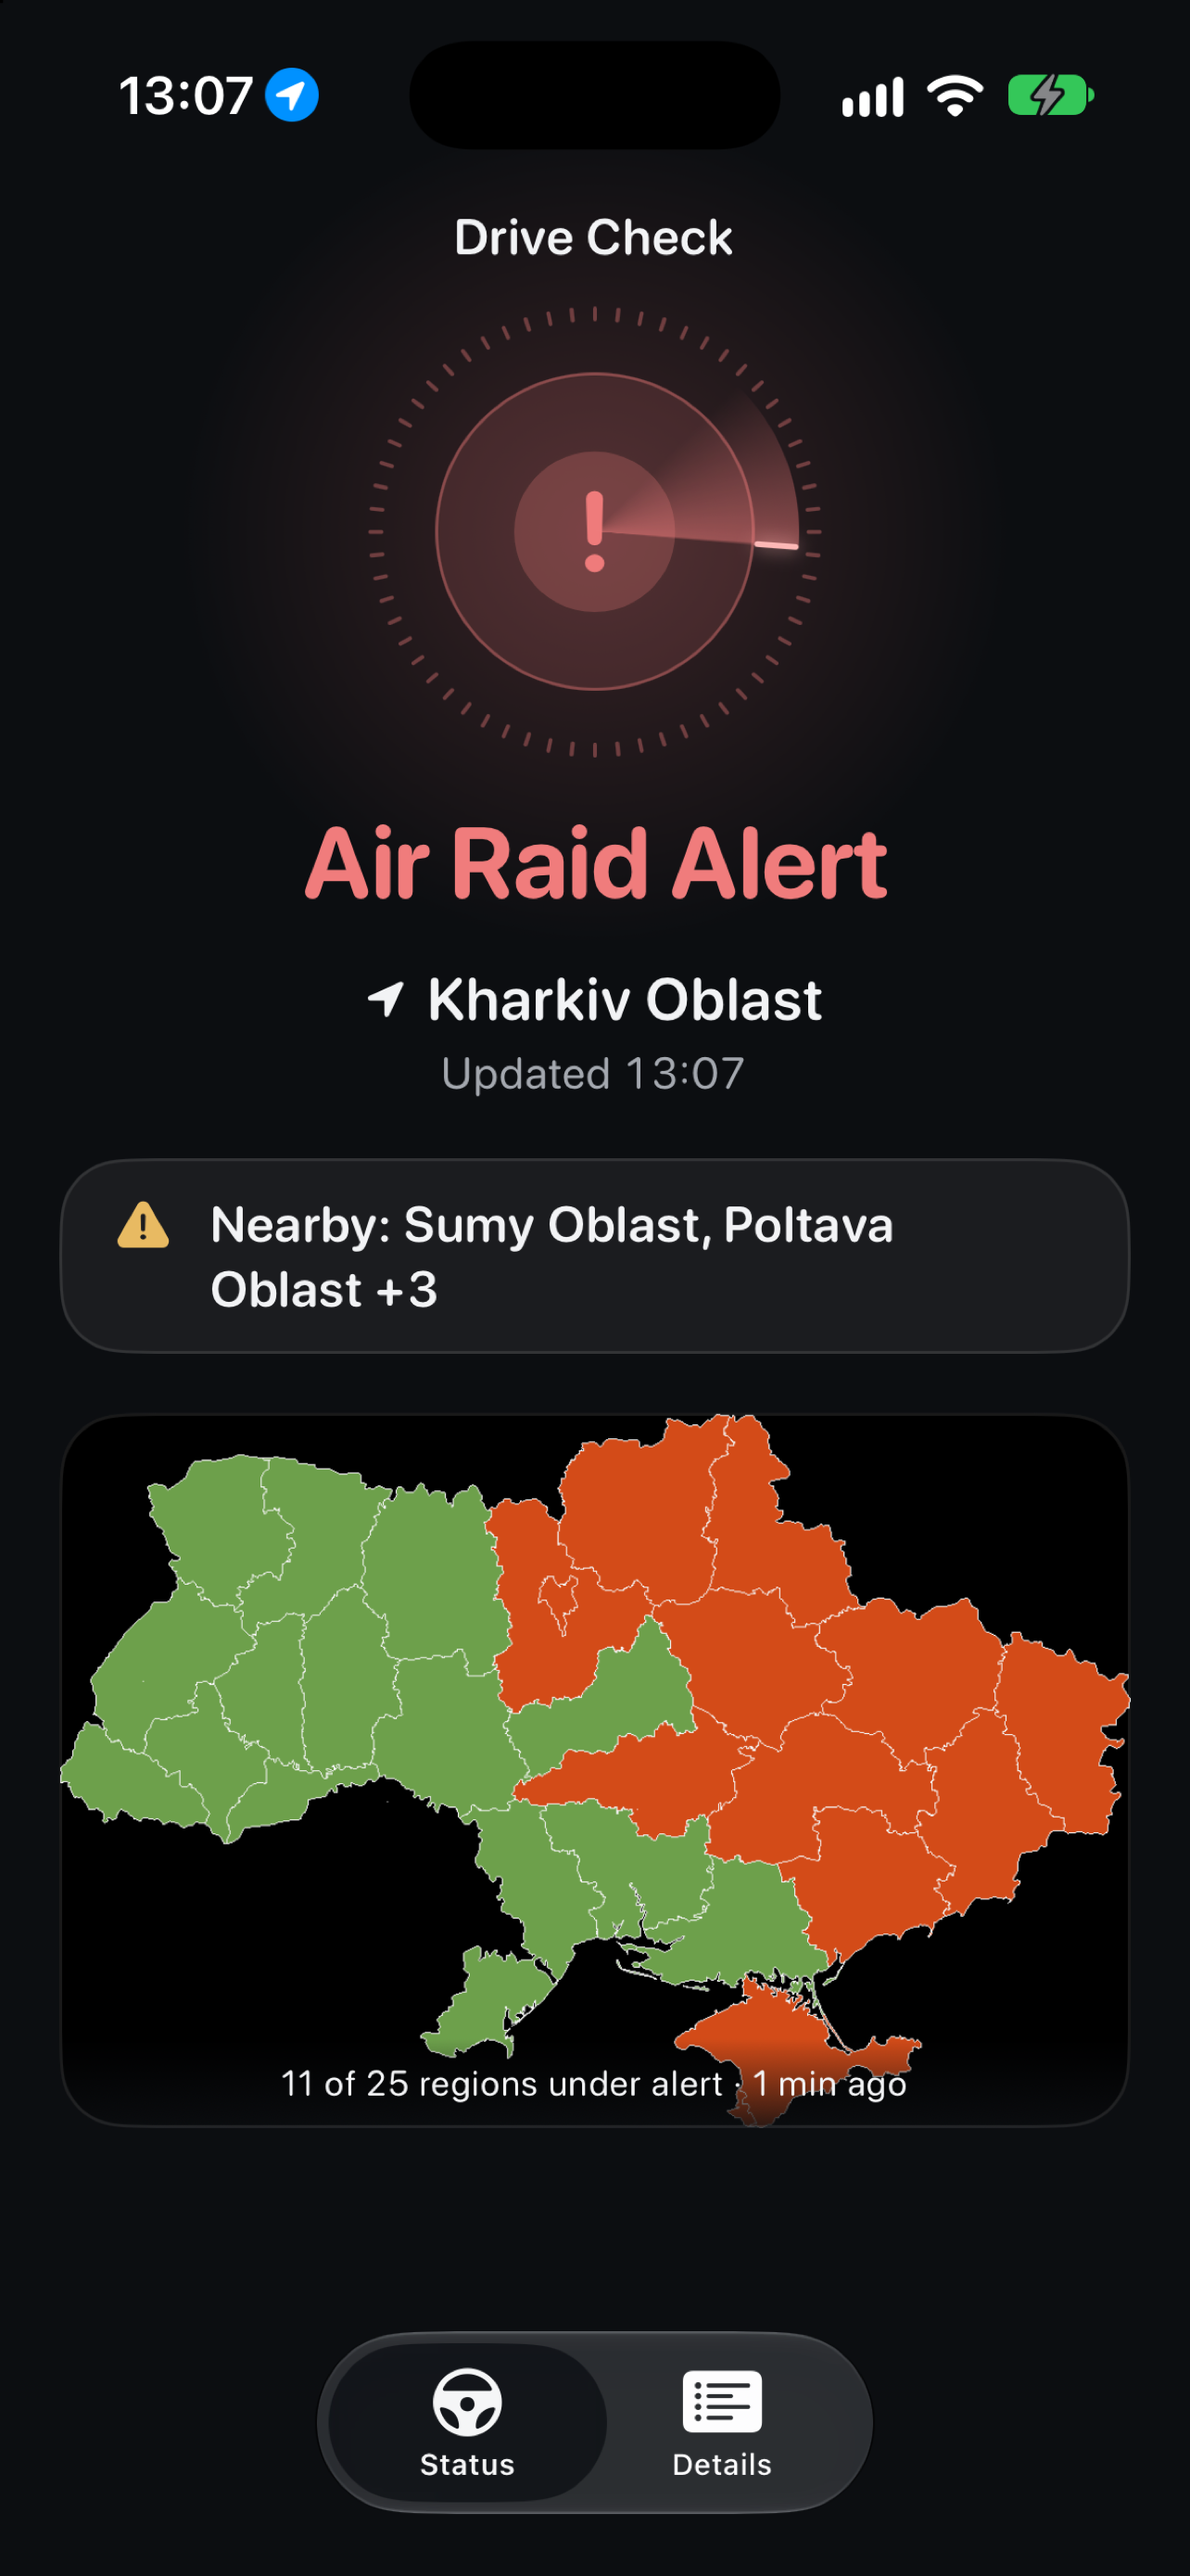
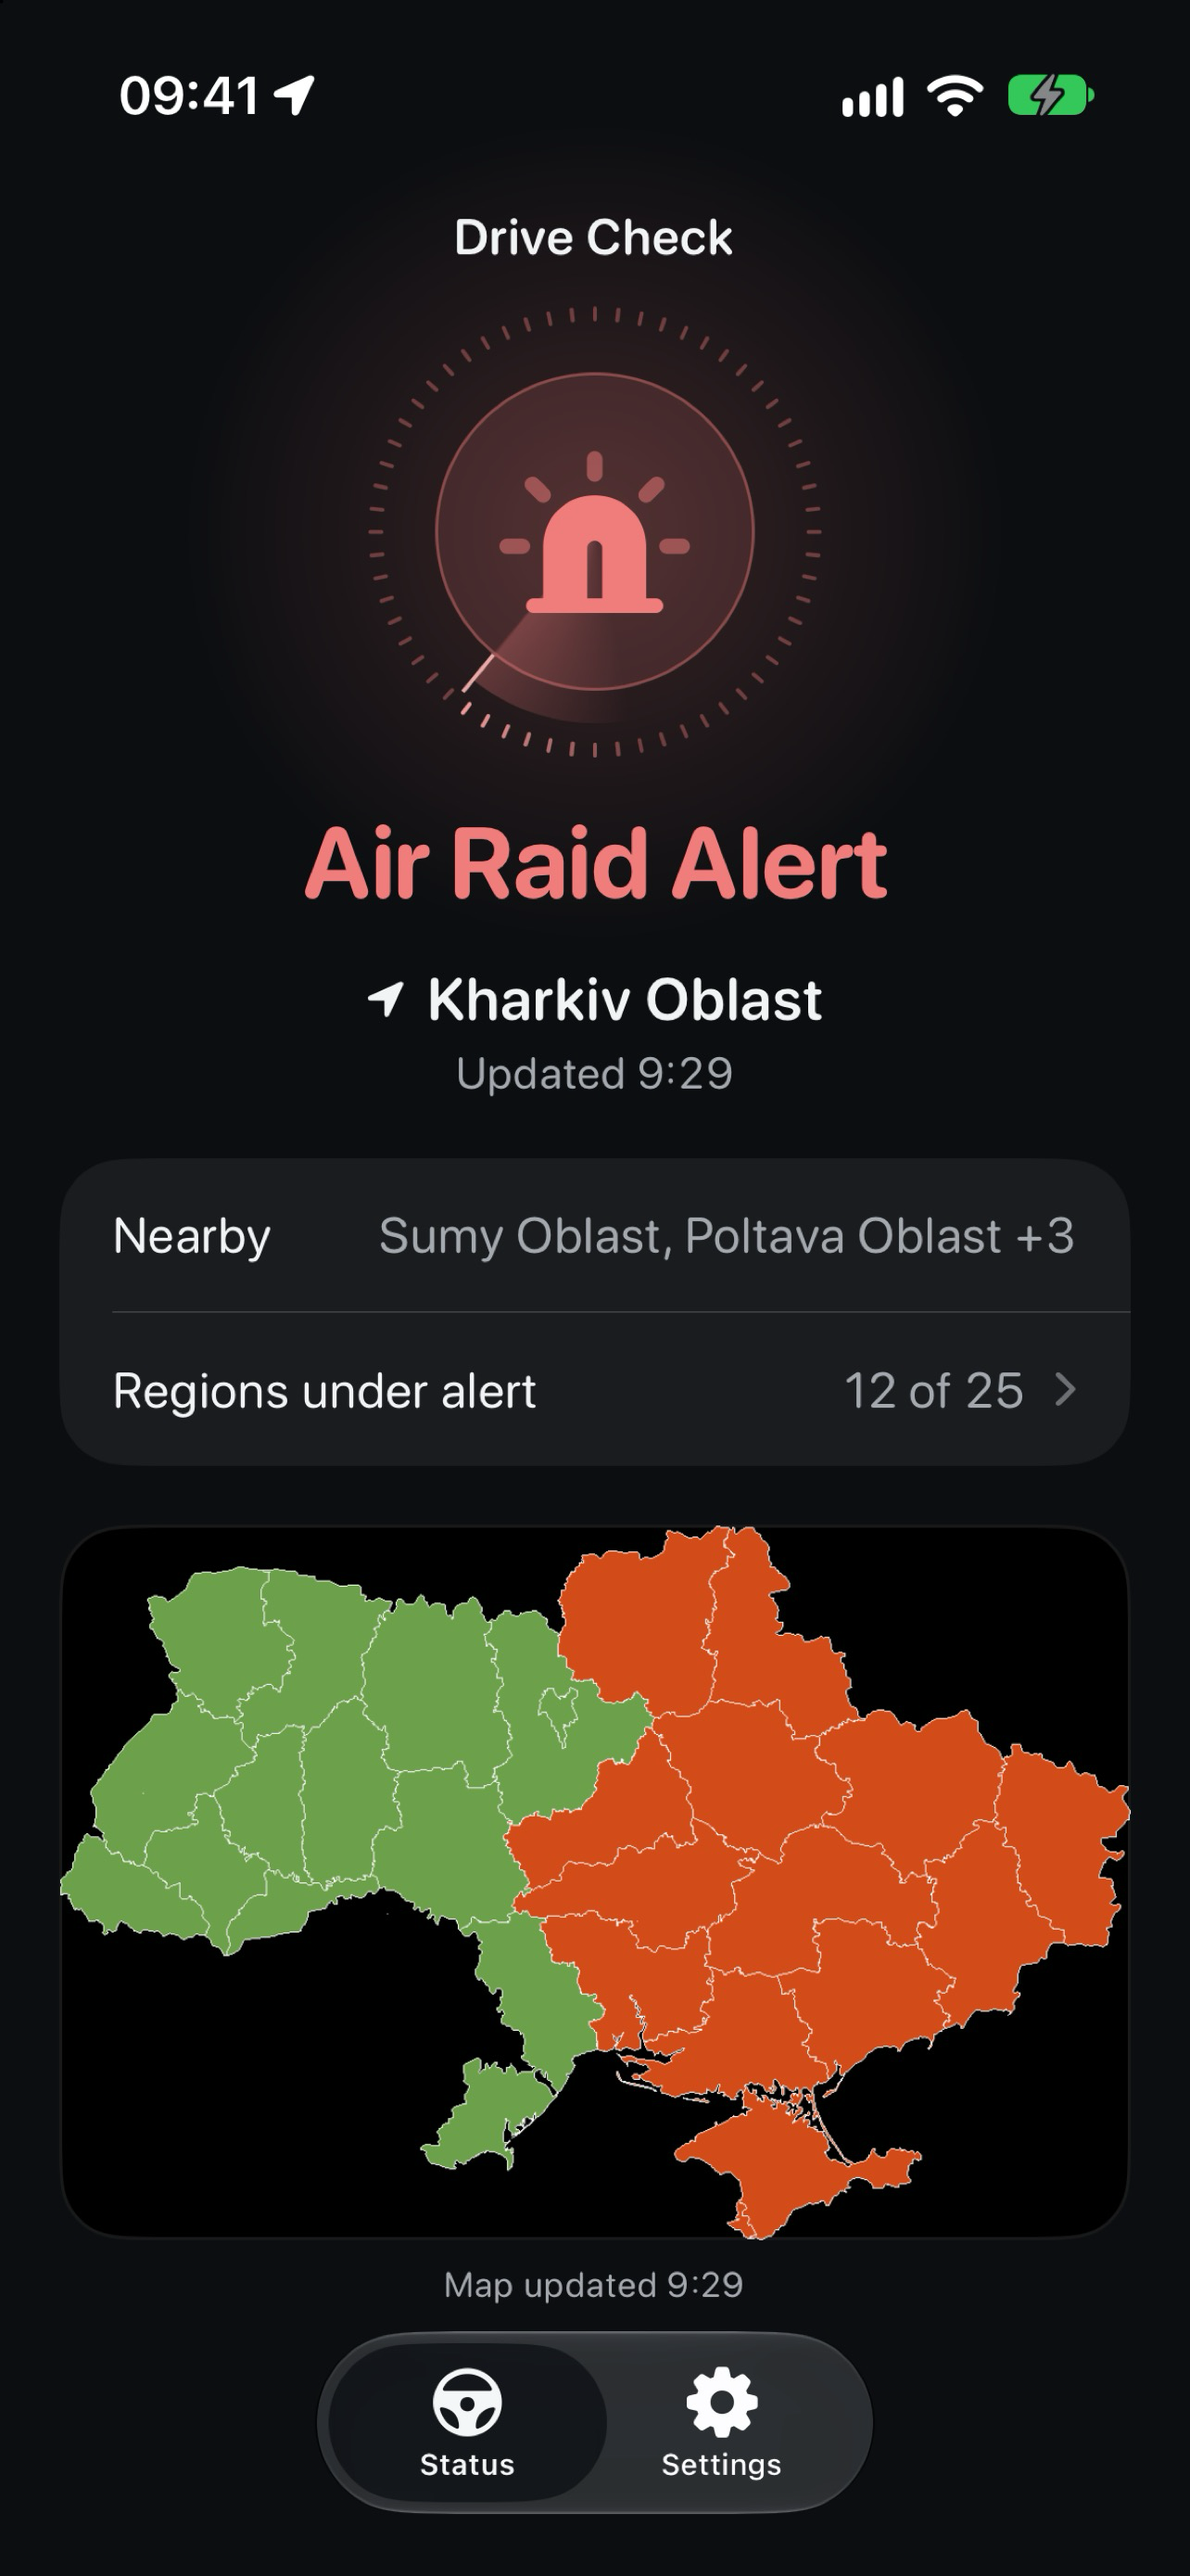
docs(release): recapture the App Store screenshots for 3.4.0
The 3.0.0 set showed the exclamation-mark symbol, the Details tab and no map
caption. The six screens are recaptured from the 3.4.0 build with live data:
the radar around the shield, Stay Alert and the siren, the map with its update
time, the region list, Settings and the welcome sheet; the README records how.

Validation: six PNGs at 1284 x 2778 without alpha (sips); checked by eye.

diff --git a/release/screenshots/README.md b/release/screenshots/README.md
@@ -1,24 +1,33 @@
-# English screenshot set for 3.0.0
+# English screenshot set for 3.4.0
 
-The six PNGs in `asc/` are the set for version 3.0.0, iPhone 6.5" display, in
-this storefront order. They replace the five uploaded to App Store Connect on
-2026-09-21, which showed the earlier radar and had no "Stay Alert" screen; they are
-uploaded in App Store Connect. The Ukrainian and Russian localizations use the same
-English set.
+The six PNGs in `asc/` are the set for version 3.4.0, iPhone 6.5" display, in
+this storefront order. They replace the 3.0.0 set, which showed the exclamation-mark
+symbol, the Details tab and no map caption. The Ukrainian and Russian localizations use
+the same English set.
 
-1. `asc/01-onboarding.png` — first launch: what the app does, "Get Started".
-2. `asc/02-status-no-alert.png` — Status, Lviv Oblast with no alert and the
-   inline alert map.
-3. `asc/03-status-stay-alert.png` — Status, Cherkasy Oblast in yellow "Stay
-   Alert": quiet, with most of its neighbours under alert, and the nearby line.
-4. `asc/04-status-alert.png` — Status, Kharkiv Oblast under alert.
+1. `asc/01-onboarding.png` — first launch: the welcome sheet, "Continue".
+2. `asc/02-status-no-alert.png` — Status, Lviv Oblast with no alert: the radar around the
+   shield, the inline alert map and its "Map updated" time.
+3. `asc/03-status-stay-alert.png` — Status, Odesa Oblast in yellow "Stay Alert": quiet,
+   with most of its neighbours under alert, and the nearby line.
+4. `asc/04-status-alert.png` — Status, Kharkiv Oblast under alert: the radar around the
+   siren.
 5. `asc/05-region-list.png` — the read-only region list opened from the map.
-6. `asc/06-details.png` — Details: summary, Live Activity switch, purchases,
-   data source.
+6. `asc/06-details.png` — Settings: Live Activities, notifications, About.
 
 All six are 1284 x 2778 opaque portrait images.
 
-## Capture provenance
+## Capture provenance (3.4.0)
+
+Captured on 2026-11-13 at 09:29–09:33 Kyiv time from the 3.4.0 Debug build of this branch, on
+this worktree's iPhone 17 simulator (iOS 27.0) erased first, with live Ubilling data (12 of 25
+regions under alert), following the 3.0.0 steps below: `-ScreenshotPhase live` (and
+`onboarding`, `region-list`, `details`), `hasCompletedOnboarding` set, the location set to each
+region and opened twice so the region change notice was gone, the status bar at 9:41 with a full
+battery. The 1206 x 2622 captures were resized to 1284 x 2778 with `sips` and flattened to opaque
+RGB. The Live Activity is not in the set: a Lock Screen shot needs a real alert on a device.
+
+## Capture provenance (3.0.0)
 
 Recaptured on 2026-09-22 from the 3.0.0 round-9 candidate (Debug build of the
 same tree) on a freshly erased iPhone 17 simulator reserved for the capture,
